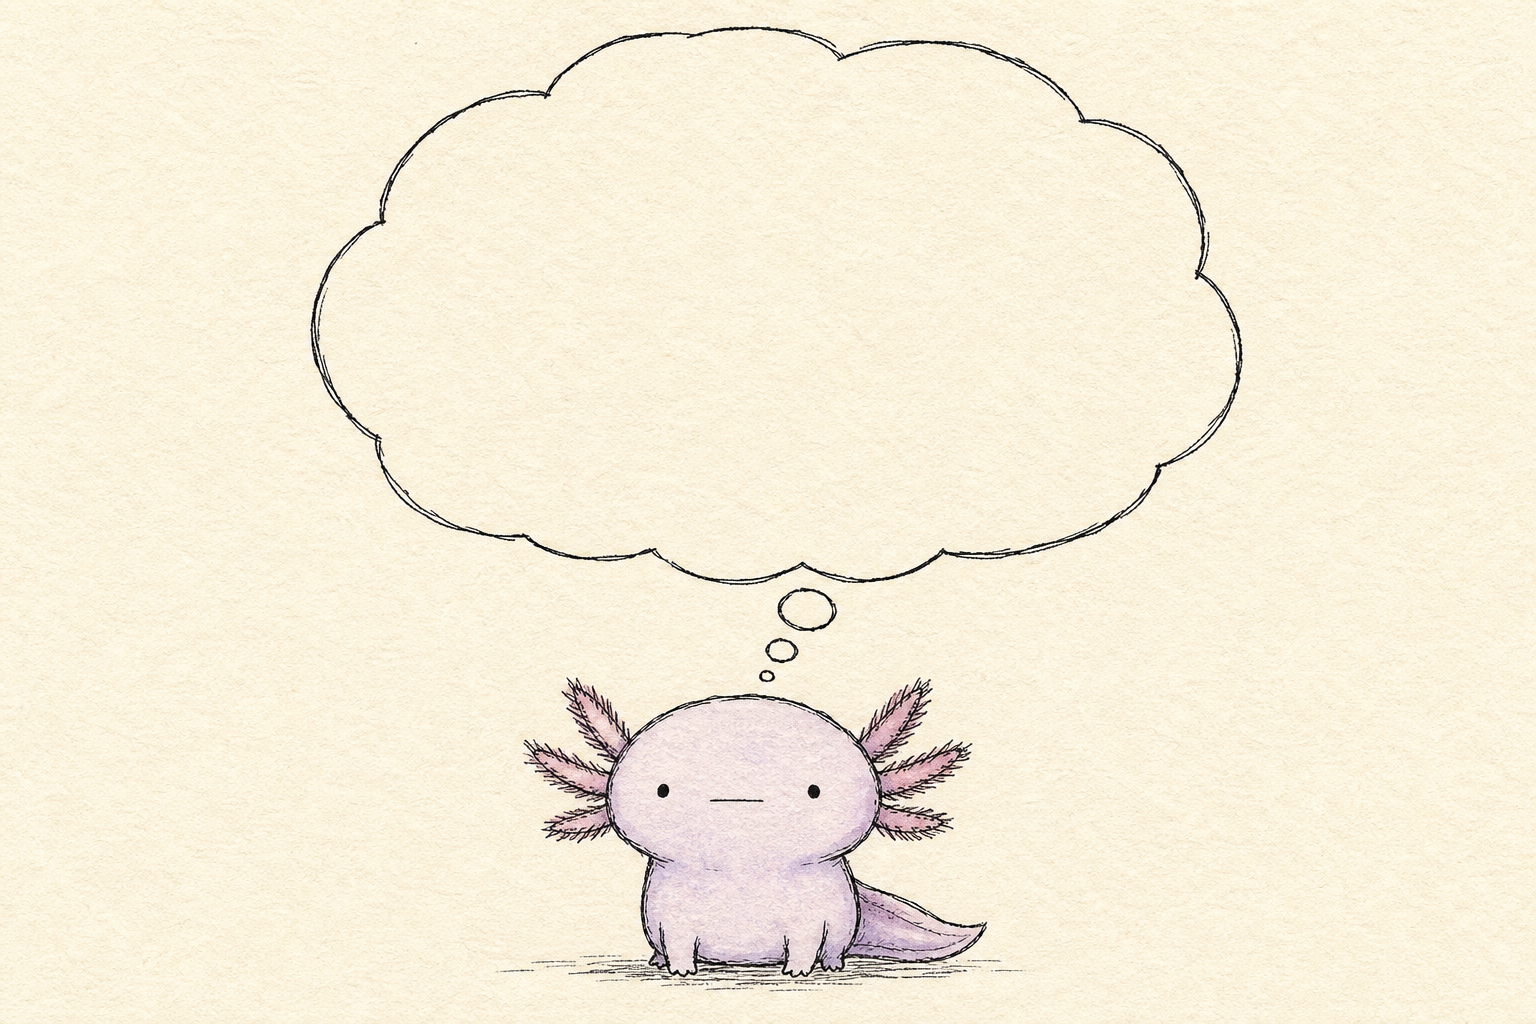
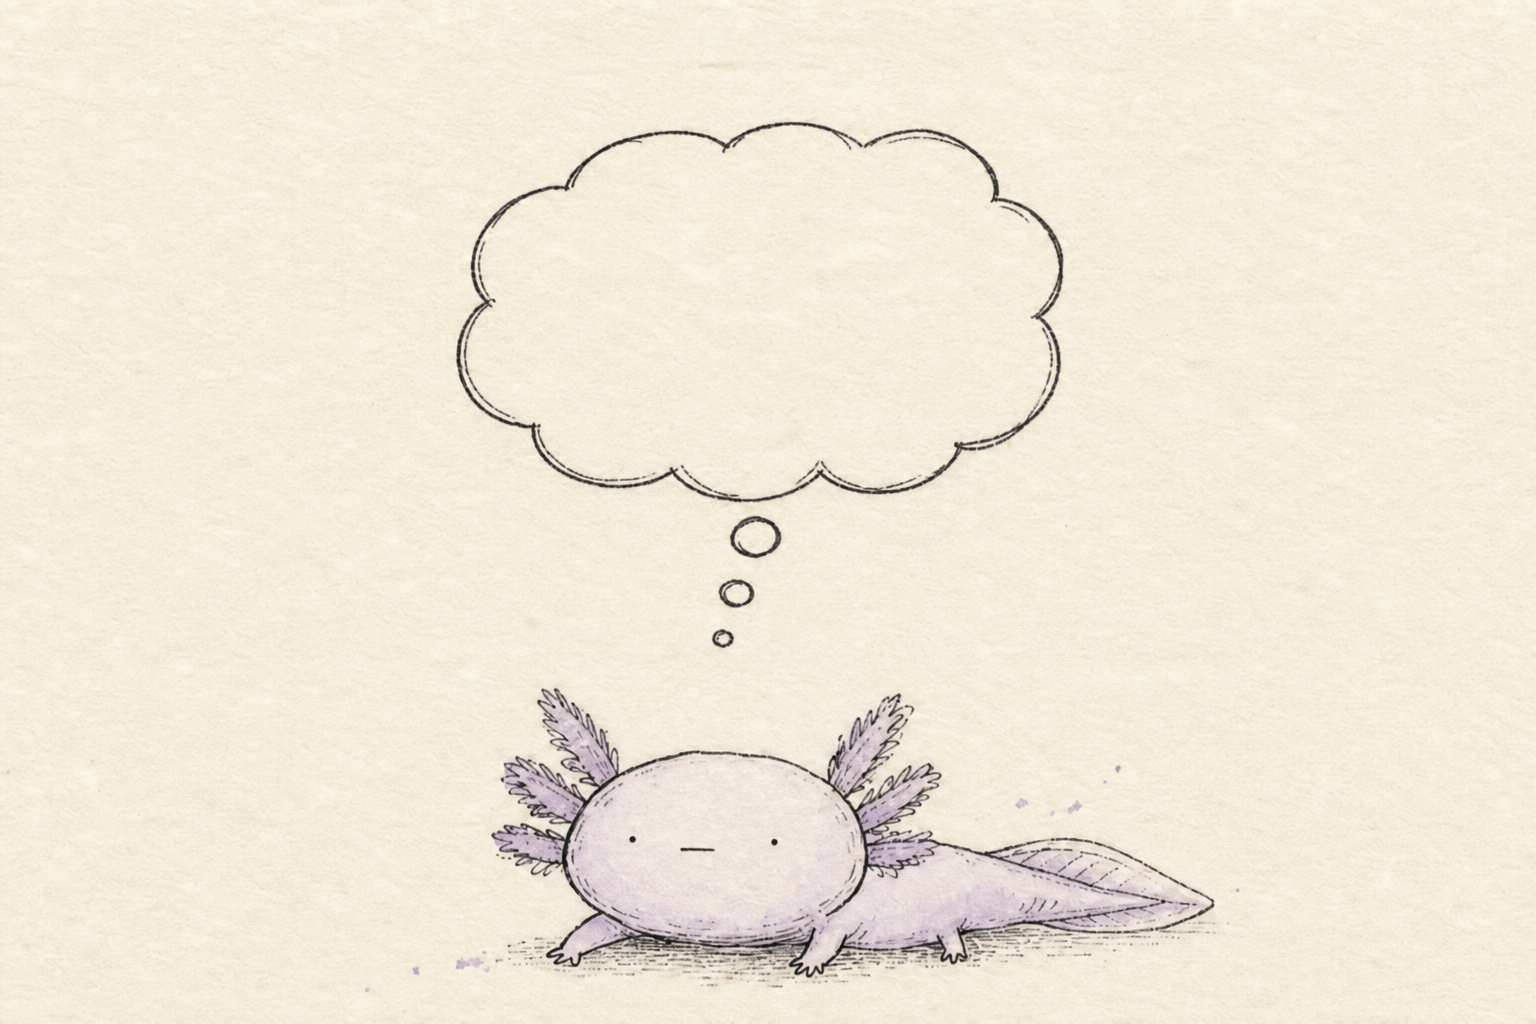
Update canonical and Day1 PNGs from master references; add layout refs

diff --git a/docs/axo-style-v3-pen-zh-TW.md b/docs/axo-style-v3-pen-zh-TW.md
@@ -4,6 +4,11 @@
 
 **取代：** v2 純平面向量為**次要**；對外 IG 以 **v3 手繪畫紙** 為主。
 
+**色彩／畫風一致（必守）：** [`axo-color-consistency-zh-TW.md`](./axo-color-consistency-zh-TW.md)
+
+**視覺真源（勿整張重畫換風格）：** `assets/axo/pen/png/axo-pen-canonical.png`  
+**畫風參考檔（僅供對照）：** `assets/axo/pen/png/reference/axo-pen-canonical-master-style.png`
+
 ---
 
 ## 視覺定義
@@ -37,9 +42,9 @@
 
 | 元素 | 說明 |
 |------|------|
-| 表情 | 直視前方、**完全空白**、平線嘴 `_` |
-| 構圖 | 頭上 **空白思考雲**（thought cloud，裡面什麼都沒有） |
-| 意義 | 讓人一眼看懂 Axo 在 **發呆**，不是在想事情 |
+| **布局** | 沿用 `reference/axo-pen-day1-layout-master.png`（角色在下方偏小） |
+| **唯一新增** | 頭上 **空白思考雲**（裡面無字、無 `...`） |
+| 表情 | 空白、平線嘴 `_`、小點眼 |
 | 檔案 | `axo-pen-day1-blank-stare.svg` · `png/axo-pen-day1.png` |
 
 ---

diff --git a/README.md b/README.md
@@ -21,6 +21,7 @@ See the [Axo character sheet](docs/axo-character-sheet.md) for colors, anatomy r
 
 - **[Instagram 上線計畫（繁中）](docs/ig-launch-zh-TW.md)** — 7 日腳本、漲粉策略、開帳 checklist
 - [路線圖（繁中）](docs/roadmap-zh-TW.md) — Phase 1 / 2 分工
+- [Axo 色彩一致規則（繁中）](docs/axo-color-consistency-zh-TW.md) — **每張圖必須同色同風**
 - [Axo 需求規格（繁體中文）](docs/axo-需求規格-zh-TW.md) — 團隊、繪畫硬性規定
 - [Axo 風格問卷（繁體中文）](docs/axo-風格問卷-zh-TW.md) — 請填寫以鎖定繪畫風格
 - [Axo Execution Guide](docs/axo-execution-guide.md) — human designer hire spec + hybrid AI/human workflow
